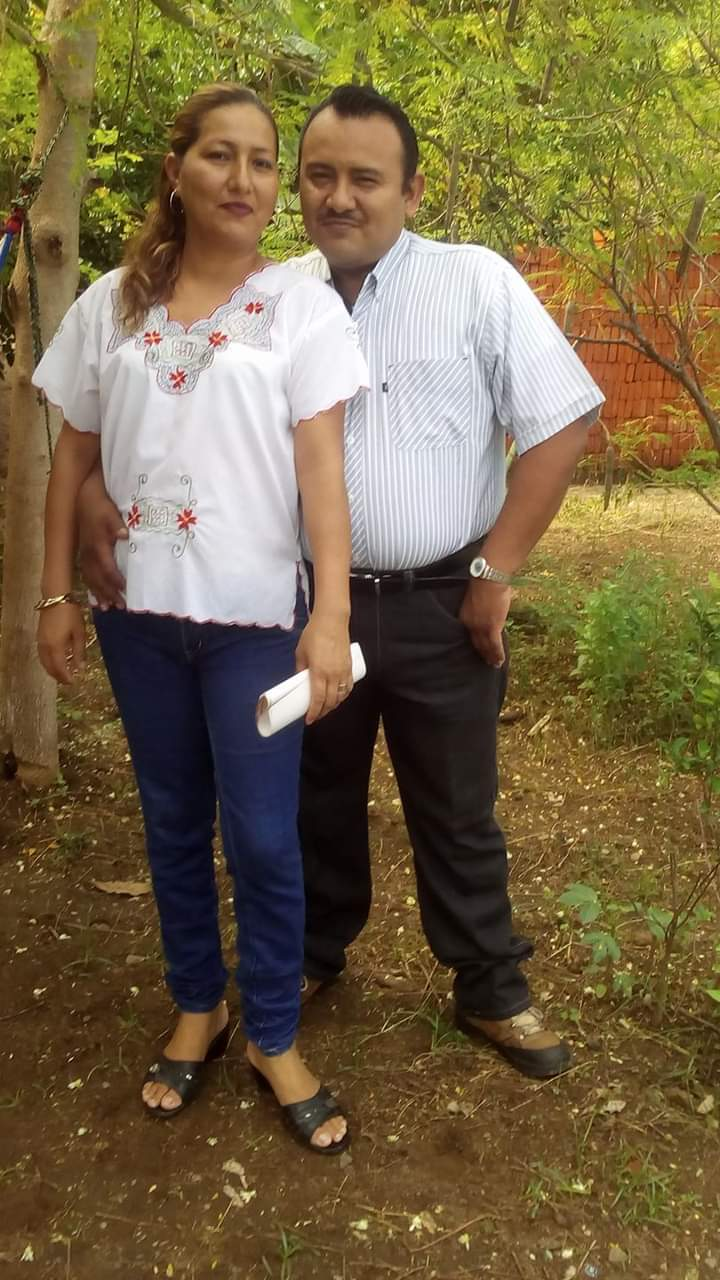
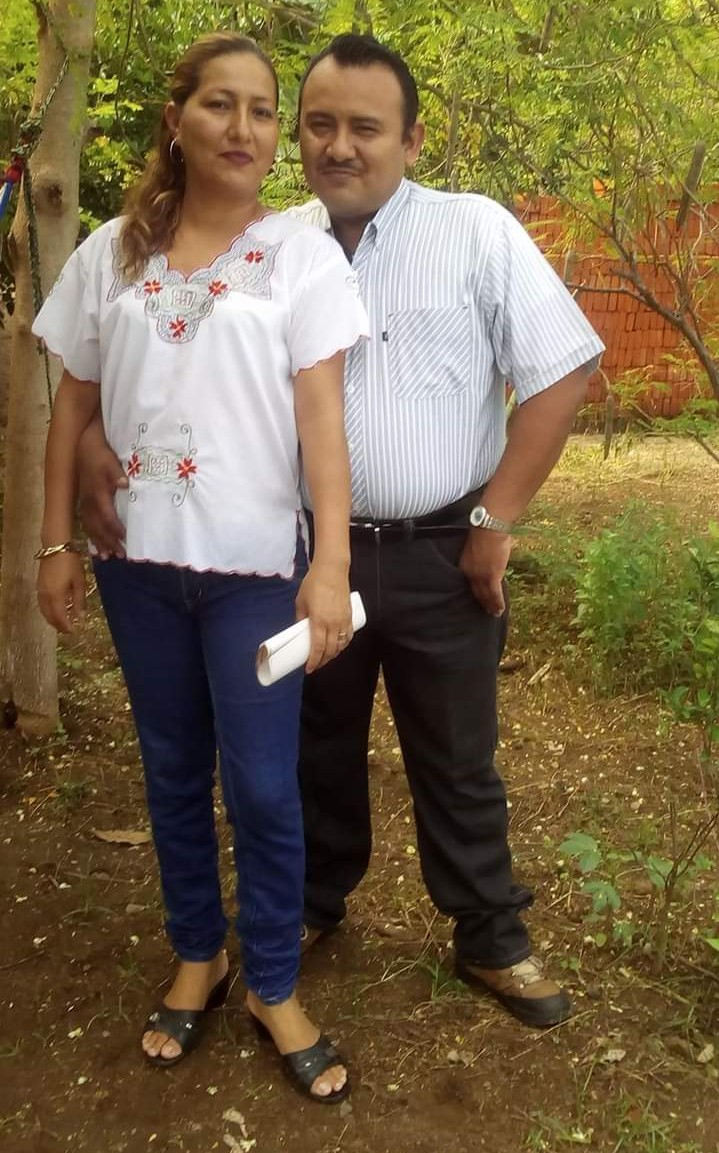
modificacion en fotos de los padres

diff --git a/client/src/App.js b/client/src/App.js
@@ -79,9 +79,10 @@ function MyModal({ onIngresar }) {
           Bienvenidos a la invitación de Elena y Oswaldo
         </Modal.Title>
         <Button
-          variant="btn btn-outline-secondary"
+          variant="info"
           onClick={handleClose}
           className="btn-animate1 mt-3"
+
         >
           Ingresar
         </Button>
@@ -417,7 +418,7 @@ function App() {
           </Card.Text>
           <Button
             className="btn-animate"
-            variant="success"
+            variant="info"
             style={{ marginBottom: "20px" }}
             href="https://api.whatsapp.com/send?phone=9625133728&text=%C2%A1%C2%A1Hola,%20confirmo%20mi%20asistencia%20a%20tu%20boda!!%F0%9F%91%B0%F0%9F%8F%BB%E2%80%8D%E2%99%80%E2%9D%A4%F0%9F%A4%B5%F0%9F%8F%BB"
             target="_blank"

diff --git a/client/src/App.css b/client/src/App.css
@@ -173,7 +173,7 @@ body {
 }
 
 .card-fotos img {
-  width: 490px; 
+  width: 370px; 
   border: 2px solid #fdfbe5; 
   border-radius: 8px; 
   margin-bottom: 16px; 
